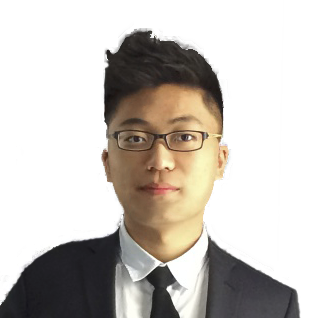
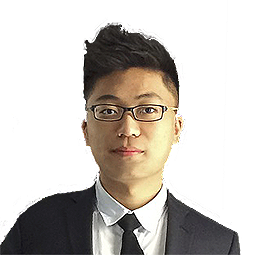
More mobile capability changes

diff --git a/css/styles-min.css b/css/styles-min.css
@@ -2,12 +2,34 @@
     #default-nav{
         background-color:rgba(0,0,0,0.4);
     }
+    #about-photo img{
+        height:186px !important;
+    }
+    #about-photo{
+        margin-top:25px !important;
+        width: 186px !important;
+        height: 186px !important;
+        border-width: 5px 3px 0px !important;
+    }
+    #personal-bio{
+        margin-top: 70px !important;
+        font-size: 14px !important;
+        font-weight: 200 !important;
+        width: 80% !important;
+    }
+    .image h2{
+        font-size: 34px !important
+    }
     #nameTag{
         font-size:30px !important;
         margin-top: 15px !important;
     }
+    .name-container{
+        height: 100% !important;
+        width: 100% !important;
+    }
     .name-container hr{
-        width:54%;
+        width:86%;
         margin-bottom: 15px !important;
     }
     .name-container .logo {
@@ -35,12 +57,14 @@
         top: 35%;
     }
     #signature{
-        width:90% !important;
+        width:80% !important;
         margin-bottom:30px !important;
         margin-top:-11.4% !important;
     }
     .loader{
-        width:85% !important;
+        width:110% !important;
+        margin-left: 5% !important;
+        margin-right: 5% !important;
     }
     #qoute{
         font-size:13px !important;

diff --git a/referrer.html b/referrer.html
@@ -12,6 +12,7 @@
 <script src="http://ajax.googleapis.com/ajax/libs/jquery/1.8.3/jquery.min.js"></script>
 <script src="js/min/referrer-min.js" type="text/javascript"></script>
 
+
 <script>
 $(document).ready(function() {
     $( "#social-wrapper").css( "width",$("#contact-me").width());
